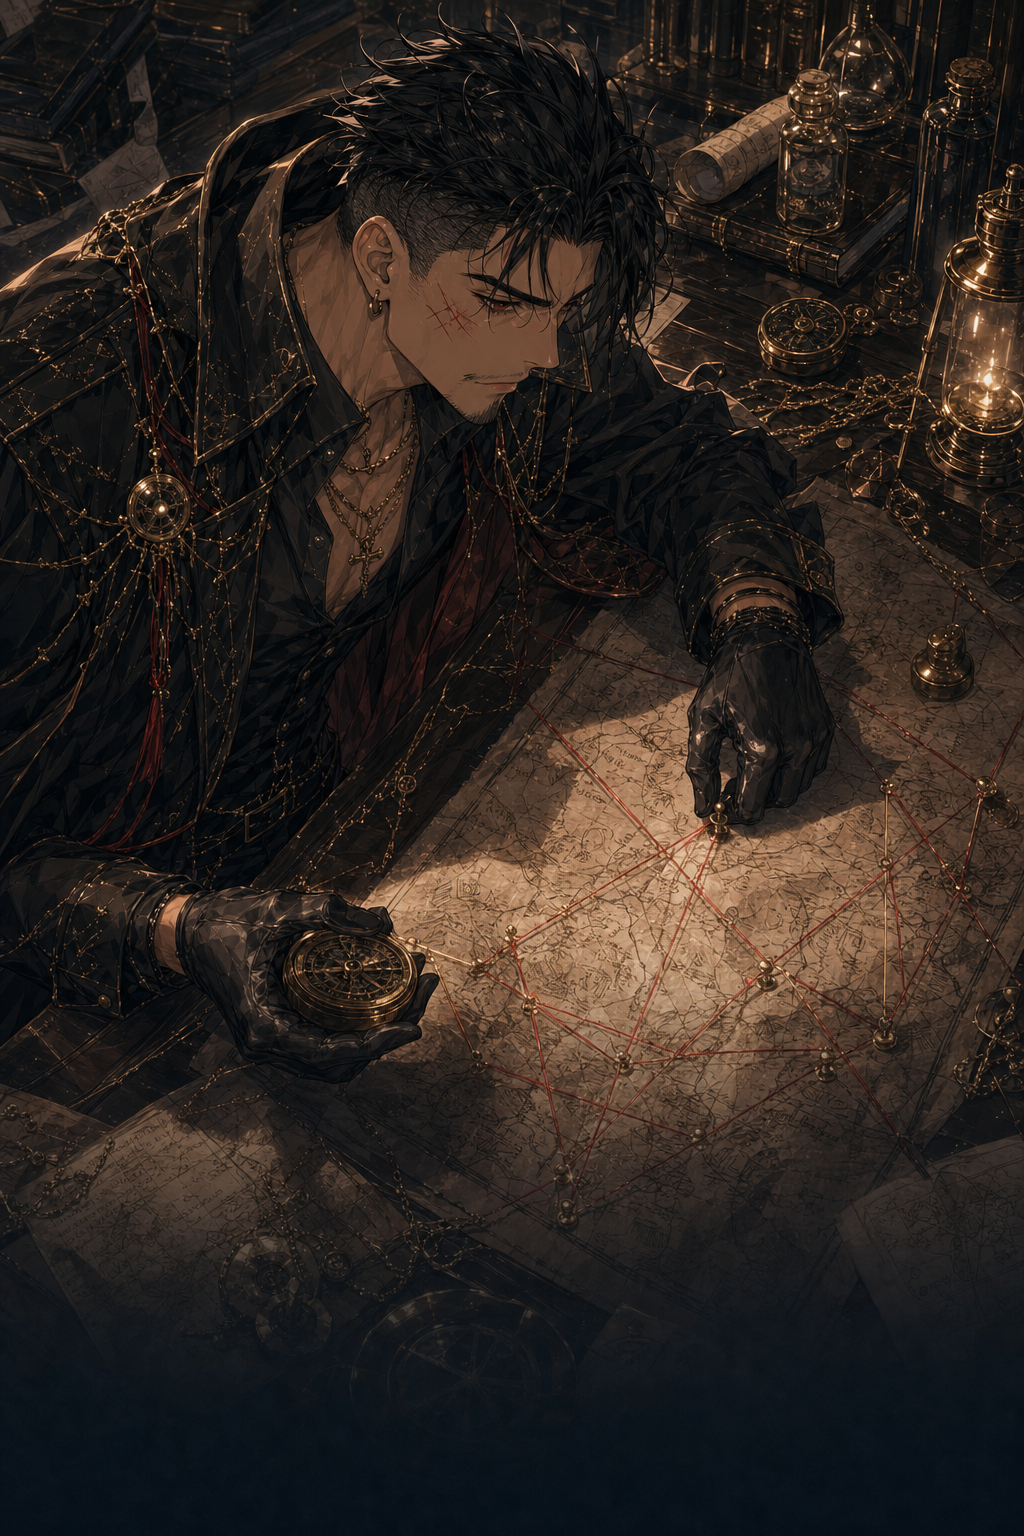
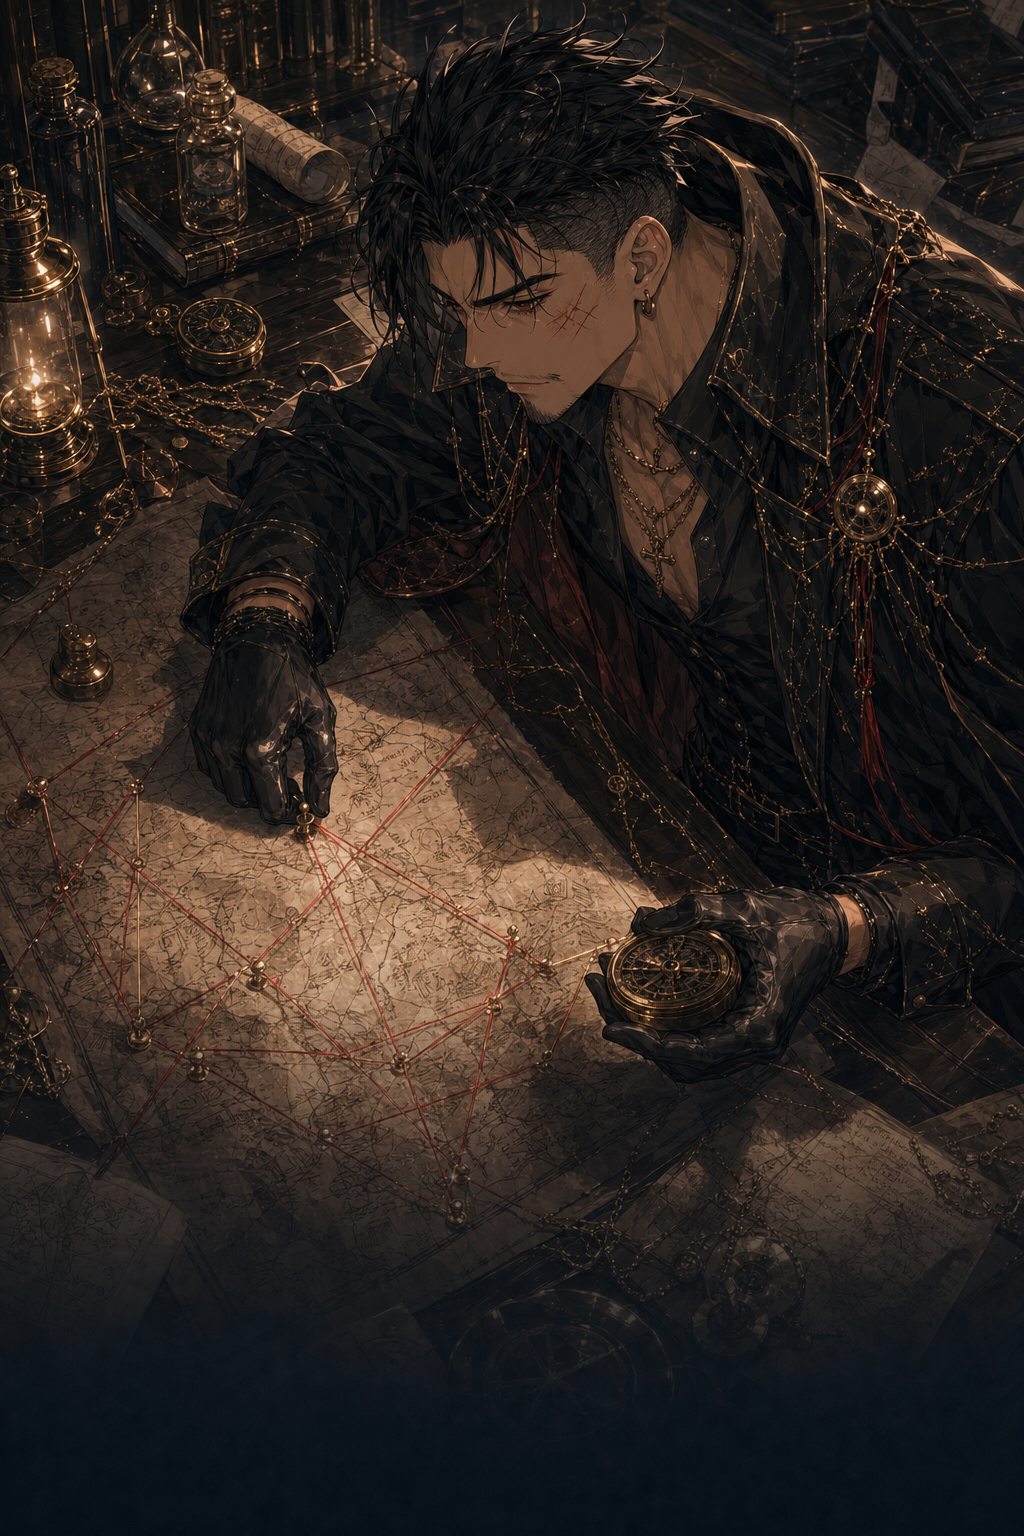
Fix CG orientation and wording

diff --git a/content/scripts/main/ohako-kantia.md b/content/scripts/main/ohako-kantia.md
@@ -11,7 +11,7 @@ title: "アバター 〜カンティアの問い〜"
 [待機: 表示完了]
 
 **ヴィンチア** (vincia/observe, 右):
-セオ、ひとつ訊かせてくれ。きみは今、絵の自分で人と喋っている。あれは--嘘の自分だと思うかい？
+セオ、ひとつ訊かせてくれ。きみは今、絵の自分で人と喋っている。これは--嘘の自分だと思うかい？
 
 **セオ** (theo/akarame, 左):
 え、えっと……顔も声も本物じゃないし。それで生きてるって、ちょっと後ろめたいというか。やっぱり嘘、なのかな。

diff --git a/docs/09_production/script_format.md b/docs/09_production/script_format.md
@@ -31,7 +31,7 @@ title: "アバター 〜カンティアの問い〜"
 ## ohako-kantia: アバター / 住人: カンティア（能力:認識）
 
 **ヴィンチア**:
-せお、ひとつ訊かせろ。お前は今、絵の自分で人と喋っている。あれは--嘘の自分だと思うか？
+せお、ひとつ訊かせろ。お前は今、絵の自分で人と喋っている。これは--嘘の自分だと思うか？
 
 **カンティア**:
 ……届いているのは、いつも「現れ」のほうだ。私はそれを『現象』と呼ぶ。